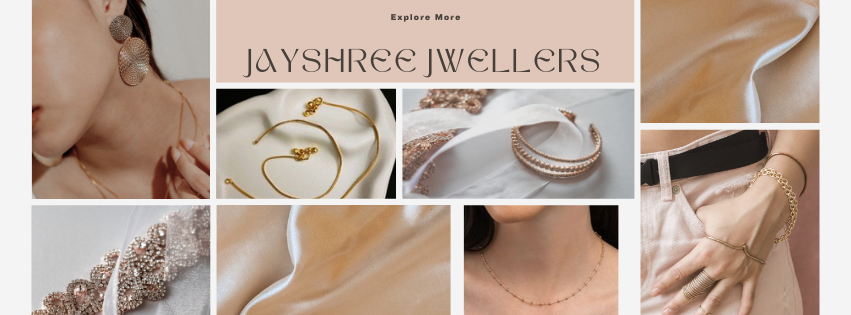
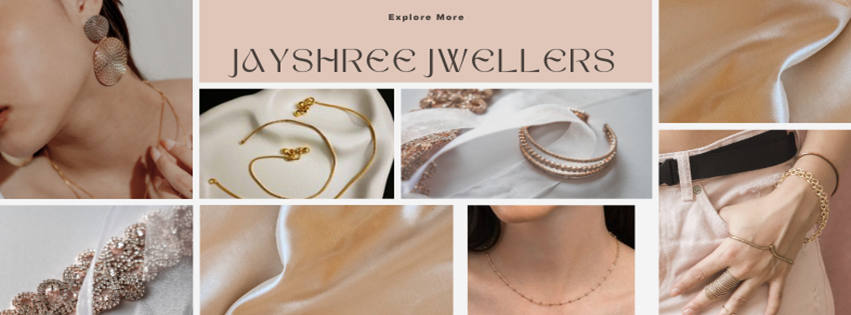
slider done in user and admin

diff --git a/css/user_style.css b/css/user_style.css
@@ -70,15 +70,17 @@ body {
 /* Carousel-start */
 
 .carousel-item {
-  height: 60vh; /* Responsive height */
+  height: auto; /* Let the height be defined by the image */
   background-color: #f8f9fa; /* Placeholder color */
   text-align: center;
 }
+
 .carousel-item img {
   width: 100%;
-  height: auto;
-  object-fit: cover;
+  height: auto; /* Maintain the original height of the image */
+  object-fit: contain; /* Ensure the image scales without being cropped */
 }
+
 @media (min-width: 768px) {
   .carousel-caption h5 {
     font-size: 3rem;
@@ -87,16 +89,19 @@ body {
     font-size: 1.5rem;
   }
 }
+
 @media (max-width: 768px) {
   .carousel-item img {
-    object-fit: contain;
-    height: auto;
-    width: 100%;
+    height: auto; /* Keep the full height of the image */
+    width: 100%; /* Scale width to fit the container */
+    object-fit: contain; /* Ensure no cropping */
   }
+
   .carousel-item {
-    height: 16vh; /* Responsive height */
+    height: auto; /* Let the image define the height on smaller screens */
   }
 }
+
 
 /* Carousel-end */
 

diff --git a/user/index.php b/user/index.php
@@ -6,39 +6,35 @@ include_once '../conn.php';
 <!-- Image Carousel-start -->
 <div id="jewelryCarousel" class="carousel slide" data-bs-ride="carousel">
   <div class="carousel-inner">
-    <div class="carousel-item active">
-      <img src="../images/carouselImg1.png" class="d-block w-100" alt="Jewelry Image 1">
-      <div class="carousel-caption d-none d-md-block">
-        <h5>Try Something New</h5>
-        <p>Explore our latest pieces</p>
+    <?php
+    $q = "select * from slider_tbl";
+    $result = mysqli_query($con, $q);
+    $isFirst = true; // Variable to track the first item
+
+    while ($r = mysqli_fetch_assoc($result)) {
+      ?>
+      <div class="carousel-item <?php echo $isFirst ? 'active' : ''; ?>">
+        <img src="<?php echo "../images/slider_image/" . $r['Image']; ?>" class="d-block w-100" alt="<?php echo $r['Name']; ?>">
+        <!-- <div class="carousel-caption d-none d-md-block">
+          <h5>Try Something New</h5>
+          <p>Explore our latest pieces</p>
+        </div> -->
       </div>
-    </div>
-    <div class="carousel-item">
-      <img src="../images/carouselImg2.png" class="d-block w-100" alt="Jewelry Image 2">
-      <div class="carousel-caption d-none d-md-block">
-        <h5>Elegance Redefined</h5>
-        <p>Discover our exclusive collection</p>
-      </div>
-    </div>
-    <div class="carousel-item">
-      <img src="../images/carouselImg3.png" class="d-block w-100" alt="Jewelry Image 3">
-      <div class="carousel-caption d-none d-md-block">
-        <h5>Timeless Beauty</h5>
-        <p>Find your perfect piece</p>
-      </div>
-    </div>
+      <?php
+      $isFirst = false; // Set $isFirst to false after the first iteration
+    }
+    ?>
   </div>
-  <button class="carousel-control-prev carousel-button" type="button" data-bs-target="#jewelryCarousel"
-    data-bs-slide="prev">
+  <button class="carousel-control-prev carousel-button" type="button" data-bs-target="#jewelryCarousel" data-bs-slide="prev">
     <span class="carousel-control-prev-icon" aria-hidden="true"></span>
     <span class="visually-hidden">Previous</span>
   </button>
-  <button class="carousel-control-next carousel-button" type="button" data-bs-target="#jewelryCarousel"
-    data-bs-slide="next">
+  <button class="carousel-control-next carousel-button" type="button" data-bs-target="#jewelryCarousel" data-bs-slide="next">
     <span class="carousel-control-next-icon" aria-hidden="true"></span>
     <span class="visually-hidden">Next</span>
   </button>
 </div>
+
 <!-- Image Carousel-end -->
 <br />
 <!-- categories-start -->

diff --git a/admin/admin_setting.php b/admin/admin_setting.php
@@ -151,9 +151,6 @@ include_once 'header.php';
                             <th scope="col">Show</th>
                             <th scope="col">Update</th>
                             <th scope="col">Delete</th>
-                            <th scope="col">Cart</th>
-                            <th scope="col">Wishlist</th>
-                            <th scope="col">Order</th>
                         </tr>
                     </thead>
                     <tbody>
@@ -220,15 +217,6 @@ include_once 'header.php';
                                             <i class="fas fa-trash"></i>
                                         </button>
                                     </form>
-                                </td>
-                                <td>
-                                    <button class="btn btn-success btn-sm"><i class="fas fa-shopping-cart"></i></button>
-                                </td>
-                                <td>
-                                    <button class="btn btn-secondary btn-sm"><i class="fas fa-heart"></i></button>
-                                </td>
-                                <td>
-                                    <button class="btn btn-warning btn-sm"><i class="fas fa-shopping-bag"></i></button>
                                 </td>
                             </tr>
                             <tr id="detailRow<?php echo $r['u_id']; ?>" class="detail-row" style="display:none;">
